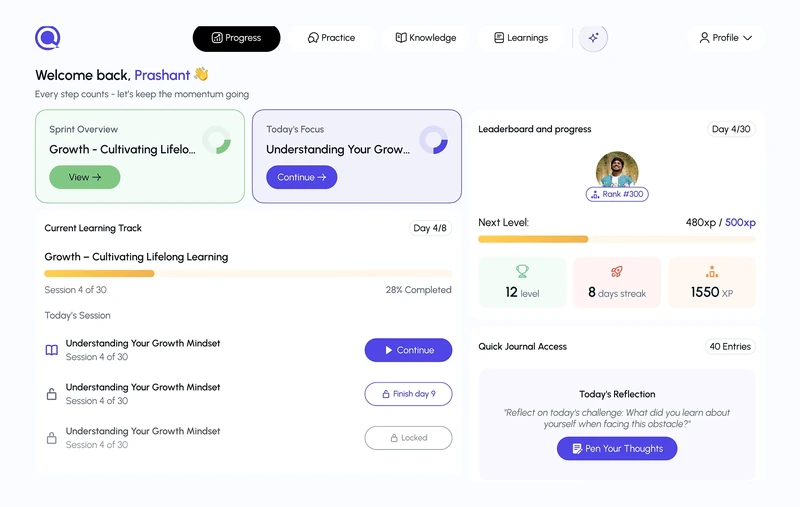
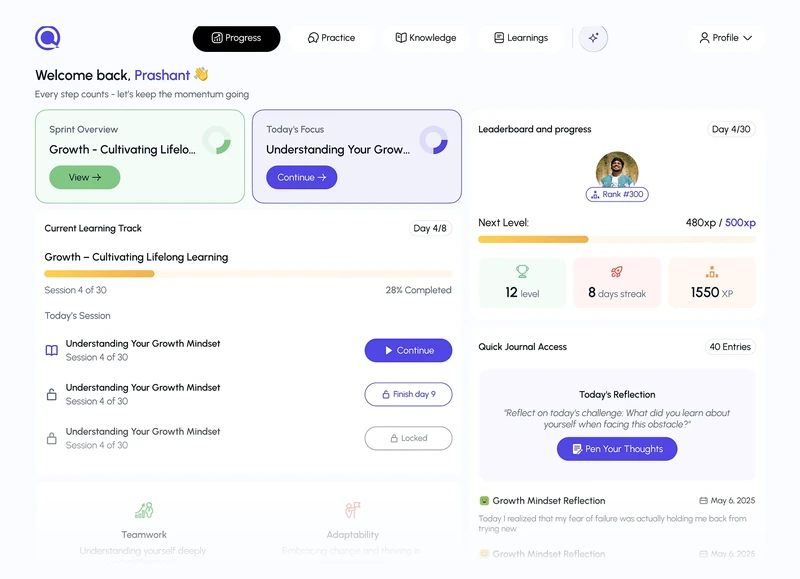
Decision sketches drawn per decision; chosen panel is the focus; QriosX screen fades out instead of a hard cut

diff --git a/src/components/CaseArt.tsx b/src/components/CaseArt.tsx
@@ -267,13 +267,185 @@ export function DecisionArt({ seed }: { seed: number }) {
   );
 }
 
-/** One side of a decision: the considered layout (grey) or the chosen one (with its blue focus). */
-export function DecisionSketch({ seed, chosen }: { seed: number; chosen: boolean }) {
+/* ---------- Decision sketches: one small scene per kind of decision ---------- */
+
+export type SketchKind = "chat" | "list" | "score" | "steps" | "path" | "cards" | "calendar" | "focus";
+
+/** Picks a sketch from the decision's own words, so each one shows what was actually chosen. */
+/** used: kinds already drawn on this page, so a page never shows the same sketch twice. */
+export function sketchKind(text: string, used: Set<SketchKind> = new Set()): SketchKind {
+  const t = text.toLowerCase();
+  const has = (...w: string[]) => w.some((x) => t.includes(x));
+  const rules: [SketchKind, string[]][] = [
+    ["chat", ["assistant", "chat", "ask ", "conversation", "copilot", "answers"]],
+    ["path", ["sprint", "journey", "level", "streak", "progress", "milestone", "path", "stage"]],
+    ["steps", ["step", "wizard", "onboarding", "one question", "guided", "flow", "intake"]],
+    ["score", ["score", "metric", "kpi", "analytics", "chart", "dashboard", "insight", "figure", "leaderboard"]],
+    ["calendar", ["calendar", "schedule", "slot", "week", "appointment", "booking"]],
+    ["cards", ["card", "tile", "grid", "gallery", "feed", "journal"]],
+    ["list", ["list", "queue", "table", "inbox", "priorit", "rows", "log"]],
+  ];
+  const match = rules.filter(([, w]) => has(...w)).map(([k]) => k).find((k) => !used.has(k));
+  const pick = match ?? (used.has("focus") ? (["cards", "list", "steps", "score"] as SketchKind[]).find((k) => !used.has(k)) ?? "focus" : "focus");
+  used.add(pick);
+  return pick;
+}
+
+export function DecisionSketch({ kind, chosen }: { kind: SketchKind; chosen: boolean }) {
   const id = uid();
+  const ln = chosen ? "stroke-foreground" : "stroke-muted-foreground";
+  const op = chosen ? 0.8 : 0.45;
+  const bar = (x: number, y: number, w: number, hot = false, h = 7) => (
+    <rect x={x} y={y} width={w} height={h} rx={2} className={hot ? "fill-primary" : "fill-muted-foreground"} fillOpacity={hot ? 1 : 0.22} />
+  );
+  const hatch = (x: number, y: number, w: number, h: number) => (
+    <rect x={x} y={y} width={w} height={h} fill={`url(#${id}h)`} className={ln} strokeOpacity={op * 0.7} />
+  );
+  const dim = "fill-background stroke-muted-foreground";
+  let body: JSX.Element;
+  switch (kind) {
+    case "chat":
+      body = chosen ? (
+        <>
+          {hatch(12, 28, 104, 44)}{bar(12, 82, 90)}{bar(12, 96, 70)}{bar(12, 110, 84)}
+          <rect x={126} y={26} width={64} height={104} rx={5} className="fill-background stroke-primary" strokeWidth="1.25" />
+          <rect x={134} y={36} width={40} height={14} rx={7} className="fill-muted-foreground" fillOpacity={0.2} />
+          <rect x={142} y={56} width={40} height={22} rx={7} className="fill-primary" />
+          <rect x={134} y={84} width={34} height={14} rx={7} className="fill-muted-foreground" fillOpacity={0.2} />
+          <rect x={132} y={112} width={52} height={10} rx={5} className="stroke-primary" strokeWidth="1" />
+        </>
+      ) : (
+        <>
+          {[0, 1, 2].map((k) => <rect key={k} x={k % 2 ? 90 : 20} y={30 + k * 30} width={90} height={22} rx={8} className="fill-muted-foreground" fillOpacity={0.18} />)}
+          <rect x={20} y={118} width={160} height={12} rx={6} className={ln} strokeOpacity={op} />
+        </>
+      );
+      break;
+    case "list":
+      body = chosen ? (
+        <>
+          {[0, 1, 2].map((k) => (
+            <g key={k}>
+              <rect x={14} y={30 + k * 34} width={172} height={26} rx={4} className={k === 0 ? "fill-background stroke-primary" : dim} strokeOpacity={k === 0 ? 1 : 0.35} strokeWidth="1.1" />
+              <circle cx={28} cy={43 + k * 34} r={5} className={k === 0 ? "fill-primary" : "fill-muted-foreground"} fillOpacity={k === 0 ? 1 : 0.3} />
+              {bar(40, 40 + k * 34, k === 0 ? 90 : 70, k === 0)}
+            </g>
+          ))}
+        </>
+      ) : (
+        <>{Array.from({ length: 8 }, (_, k) => <g key={k}>{bar(14, 28 + k * 13, 40)}{bar(60, 28 + k * 13, 60)}{bar(126, 28 + k * 13, 30)}{bar(162, 28 + k * 13, 24)}</g>)}</>
+      );
+      break;
+    case "score":
+      body = chosen ? (
+        <>
+          <circle cx={62} cy={78} r={34} className="stroke-muted-foreground" strokeOpacity={0.2} strokeWidth="8" />
+          <path d="M62 44a34 34 0 1 1 -32 46" className="stroke-primary" strokeWidth="8" strokeLinecap="round" />
+          <rect x={50} y={72} width={24} height={10} rx={2} className="fill-foreground" fillOpacity={0.8} />
+          {[0, 1, 2].map((k) => <g key={k}>{bar(116, 46 + k * 22, 70 - k * 18, k === 0, 9)}</g>)}
+          <path d="M98 78h12" className="stroke-primary" strokeDasharray="2 3" />
+        </>
+      ) : (
+        <>
+          {[0, 1, 2, 3, 4, 5].map((k) => {
+            const x = 14 + (k % 3) * 60, y = 28 + Math.floor(k / 3) * 54;
+            return (
+              <g key={k}>
+                <rect x={x} y={y} width={52} height={46} rx={3} className={ln} strokeOpacity={op * 0.8} />
+                {[0, 1, 2, 3].map((b) => <rect key={b} x={x + 8 + b * 10} y={y + 36 - (((k + b) % 4) + 1) * 6} width={6} height={(((k + b) % 4) + 1) * 6} className="fill-muted-foreground" fillOpacity={0.25} />)}
+              </g>
+            );
+          })}
+        </>
+      );
+      break;
+    case "steps":
+      body = chosen ? (
+        <>
+          <path d="M67 34h16M93 34h16M119 34h16" className="stroke-muted-foreground" strokeOpacity={0.35} />
+          {[0, 1, 2, 3].map((k) => <circle key={k} cx={62 + k * 26} cy={34} r={5} className={k <= 1 ? "fill-primary" : dim} strokeOpacity={0.5} />)}
+          <rect x={40} y={50} width={120} height={64} rx={5} className="fill-background stroke-foreground" strokeOpacity={0.6} />
+          {bar(52, 62, 80)}
+          <rect x={52} y={78} width={96} height={12} rx={3} className="stroke-muted-foreground" strokeOpacity={0.4} />
+          <rect x={110} y={98} width={38} height={10} rx={3} className="fill-primary" />
+        </>
+      ) : (
+        <>{Array.from({ length: 7 }, (_, k) => <g key={k}>{bar(20, 28 + k * 15, 40)}<rect x={70} y={26 + k * 15} width={110} height={10} rx={2} className="stroke-muted-foreground" strokeOpacity={0.35} /></g>)}</>
+      );
+      break;
+    case "path":
+      body = chosen ? (
+        <>
+          <path d="M24 116 C 60 116, 60 80, 96 80 S 132 44, 172 40" className="stroke-muted-foreground" strokeOpacity={0.35} strokeWidth="1.5" strokeDasharray="3 4" />
+          <path d="M24 116 C 60 116, 60 80, 96 80" className="stroke-primary" strokeWidth="2" />
+          <circle cx={24} cy={116} r={5} className="fill-primary" />
+          <circle cx={58} cy={103} r={5} className="fill-primary" />
+          <rect x={86} y={70} width={20} height={20} rx={4} className="fill-primary" />
+          <circle cx={134} cy={57} r={5} className={dim} strokeOpacity={0.5} />
+          <circle cx={172} cy={40} r={5} className={dim} strokeOpacity={0.5} />
+          <rect x={150} y={22} width={40} height={10} rx={3} className="stroke-primary" strokeWidth="1" />
+        </>
+      ) : (
+        <>
+          {[0, 1, 2, 3].map((k) => (
+            <g key={k}>
+              {bar(16, 30 + k * 26, 70)}
+              <rect x={96} y={31 + k * 26} width={88} height={6} rx={3} className="fill-muted-foreground" fillOpacity={0.15} />
+              <rect x={96} y={31 + k * 26} width={[60, 30, 10, 0][k]} height={6} rx={3} className="fill-muted-foreground" fillOpacity={0.35} />
+            </g>
+          ))}
+        </>
+      );
+      break;
+    case "cards":
+      body = chosen ? (
+        <>
+          {[0, 1, 2, 3].map((k) => {
+            const x = 16 + (k % 2) * 88, y = 28 + Math.floor(k / 2) * 52;
+            return (
+              <g key={k}>
+                <rect x={x} y={y} width={80} height={44} rx={5} className={k === 0 ? "fill-primary" : dim} strokeOpacity={0.4} />
+                {k === 0 ? <rect x={x + 8} y={y + 10} width={40} height={7} rx={2} className="fill-primary-foreground" /> : <>{bar(x + 8, y + 10, 40)}{bar(x + 8, y + 24, 56)}</>}
+              </g>
+            );
+          })}
+        </>
+      ) : (
+        <>{[168, 150, 160, 120, 168, 140, 160, 90].map((w, k) => <g key={k}>{bar(16, 28 + k * 13, w)}</g>)}</>
+      );
+      break;
+    case "calendar":
+      body = chosen ? (
+        <>
+          {[0, 1, 2, 3, 4].map((c) => <path key={c} d={`M${20 + c * 34} 30v96`} className="stroke-muted-foreground" strokeOpacity={0.2} />)}
+          {[0, 1, 2, 3, 4].map((c) => <g key={c}>{bar(24 + c * 34, 30, 22)}</g>)}
+          <rect x={56} y={48} width={30} height={28} rx={3} className="fill-primary" />
+          <rect x={124} y={84} width={30} height={20} rx={3} className="fill-muted-foreground" fillOpacity={0.2} />
+          <rect x={22} y={92} width={30} height={16} rx={3} className="fill-muted-foreground" fillOpacity={0.2} />
+        </>
+      ) : (
+        <>{Array.from({ length: 7 }, (_, k) => <g key={k}>{bar(16, 28 + k * 15, 24)}{bar(48, 28 + k * 15, 120)}</g>)}</>
+      );
+      break;
+    default:
+      body = chosen ? (
+        <>
+          {hatch(14, 28, 60, 98)}
+          <rect x={84} y={28} width={102} height={60} rx={4} className="fill-primary" />
+          {bar(84, 98, 80)}{bar(84, 112, 56)}
+        </>
+      ) : (
+        <>{[0, 1, 2].map((k) => <g key={k}>{hatch(14 + k * 60, 28, 52, 30)}</g>)}{hatch(14, 66, 172, 60)}</>
+      );
+  }
   return (
-    <svg viewBox="-2 -2 152 144" className="block h-auto w-full" fill="none" aria-hidden="true">
+    <svg viewBox="-1 -1 202 142" className="block h-auto w-full" fill="none" aria-hidden="true">
       <defs><Hatch id={`${id}h`} gap={7} /></defs>
-      <Wire v={seed % 4} chosen={chosen} x={0} hid={`${id}h`} />
+      <rect x={1} y={1} width={198} height={138} rx={6} className={`fill-background ${ln}`} strokeOpacity={op} strokeWidth="1.25" />
+      <path d="M1 18h198" className={ln} strokeOpacity={op} />
+      <circle cx={11} cy={9.5} r={2.2} className={chosen ? "fill-primary" : "fill-muted-foreground"} fillOpacity={chosen ? 1 : 0.4} />
+      <circle cx={19} cy={9.5} r={2.2} className="fill-muted-foreground" fillOpacity={0.4} />
+      {body}
     </svg>
   );
 }

diff --git a/src/pages/CaseStudy.tsx b/src/pages/CaseStudy.tsx
@@ -1,6 +1,6 @@
 import { useMemo, useState } from "react";
 import { Link, useParams } from "react-router-dom";
-import { AudienceArt, DecisionSketch, HeroScene, JourneyFlow, PersonaMark, seedOf } from "../components/CaseArt";
+import { AudienceArt, DecisionSketch, sketchKind, type SketchKind, HeroScene, JourneyFlow, PersonaMark, seedOf } from "../components/CaseArt";
 import { GlyphTile } from "../components/Glyphs";
 import { Closing } from "../components/Layout";
 import { Lightbox } from "../components/Lightbox";
@@ -44,7 +44,7 @@ function LayerIcon({ count, active }: { count: number; active: number }) {
   );
 }
 
-function DecisionBlock({ d, i, seed }: { d: Decision; i: number; seed: number }) {
+function DecisionBlock({ d, i, kind }: { d: Decision; i: number; kind: SketchKind }) {
   return (
     <article className="grid gap-10 border-t py-14 lg:grid-cols-12 lg:gap-x-20 lg:py-20">
       <div className="lg:col-span-4">
@@ -53,22 +53,22 @@ function DecisionBlock({ d, i, seed }: { d: Decision; i: number; seed: number })
         <p className="mt-5 text-muted-foreground">{d.problem}</p>
       </div>
       <div className="lg:col-span-8">
-        <div className="relative grid grid-cols-2 gap-5 sm:gap-14">
-          <div className="border-t pt-6">
-            <div className="bg-[hsl(225_20%_97.5%)] px-4 py-5 md:px-10 md:py-8"><div className="mx-auto max-w-[10rem] opacity-70"><DecisionSketch seed={seed + i} chosen={false} /></div></div>
-            <p className="eyebrow mt-6 flex items-center gap-2">
+        <div className="grid items-end gap-5 sm:grid-cols-5 sm:gap-8">
+          <div className="sm:col-span-2">
+            <div className="bg-[hsl(225_20%_97.5%)] p-5 md:p-6"><div className="mx-auto max-w-[11rem] opacity-80"><DecisionSketch kind={kind} chosen={false} /></div></div>
+            <p className="eyebrow mt-5 flex items-center gap-2">
               <svg viewBox="0 0 16 16" className="h-3.5 w-3.5" fill="none" stroke="currentColor" strokeWidth="1.5" strokeLinecap="round" aria-hidden="true"><path d="M4 4l8 8M12 4l-8 8" /></svg>
               Considered
             </p>
-            <p className="mt-3 text-muted-foreground">{d.alt}</p>
+            <p className="mt-2 text-small text-muted-foreground">{d.alt}</p>
           </div>
-          <div className="border-t-2 border-primary pt-6">
-            <div className="bg-[hsl(225_20%_97.5%)] px-4 py-5 md:px-10 md:py-8"><div className="mx-auto max-w-[10rem]"><DecisionSketch seed={seed + i} chosen /></div></div>
-            <p className="eyebrow mt-6 flex items-center gap-2 text-primary">
+          <div className="sm:col-span-3">
+            <div className="border-t-2 border-primary bg-[hsl(225_60%_97.5%)] p-6 md:p-10"><div className="mx-auto max-w-[18rem]"><DecisionSketch kind={kind} chosen /></div></div>
+            <p className="eyebrow mt-5 flex items-center gap-2 text-primary">
               <svg viewBox="0 0 16 16" className="h-3.5 w-3.5" fill="none" stroke="currentColor" strokeWidth="1.75" strokeLinecap="round" strokeLinejoin="round" aria-hidden="true"><path d="M3.5 8.5l3 3 6-7" /></svg>
               Chosen
             </p>
-            <p className="mt-3">{d.choice}</p>
+            <p className="mt-2 text-body-lg">{d.choice}</p>
           </div>
         </div>
         <div className="mt-10 flex gap-4">
@@ -156,7 +156,6 @@ export default function CaseStudy({ slug: fixed }: { slug?: string }) {
   const [open, setOpen] = useState<number | null>(null);
   if (!p || !c) return <NotFound />;
 
-  const seed = seedOf(p.slug);
   const related = projects.filter((x) => x.slug !== p.slug && x.kind !== "inhouse" && x.category === p.category).sort((a, b) => (seedOf(a.slug + p.slug) % 97) - (seedOf(b.slug + p.slug) % 97)).slice(0, 3);
   const chips = [...p.platforms, ...p.scope].slice(0, 3);
   const openKey = (k: string) => setOpen(Math.max(0, gallery.indexOf(k)));
@@ -313,7 +312,7 @@ export default function CaseStudy({ slug: fixed }: { slug?: string }) {
         <div className="wrap">
           <Head n={++n} eyebrow="Key decisions" title={<>Choices that <span className="text-primary">shaped it</span></>} aside="What I considered, what I chose, and why." />
           <div className="mt-14">
-            {c.decisions.slice(0, 3).map((d, i) => <DecisionBlock key={d.title} d={d} i={i} seed={seed} />)}
+            {(() => { const used = new Set<SketchKind>(); return c.decisions.slice(0, 3).map((d, i) => <DecisionBlock key={d.title} d={d} i={i} kind={sketchKind(`${d.title} ${d.choice}`, used)} />); })()}
           </div>
         </div>
       </section>

diff --git a/src/data/images.ts b/src/data/images.ts
@@ -13,7 +13,7 @@ export const images: Record<string, { w: number; h: number; v: number[] }> = {
   "12d9beb10c": { w: 1280, h: 960, v: [800] },
   "144a59afd1": { w: 3200, h: 2400, v: [800, 1600, 2400] },
   "14a046e14a": { w: 3024, h: 1964, v: [800, 1600, 2400] },
-  "14ea830a66": { w: 1600, h: 1014, v: [800, 1600] },
+  "14ea830a66": { w: 1600, h: 1157, v: [800, 1600] },
   "17aa74a7c0": { w: 3200, h: 2400, v: [800, 1600, 2400] },
   "192701f1a2": { w: 3200, h: 2400, v: [800, 1600, 2400] },
   "1f466df2b8": { w: 2657, h: 1581, v: [800, 1600, 2400] },
